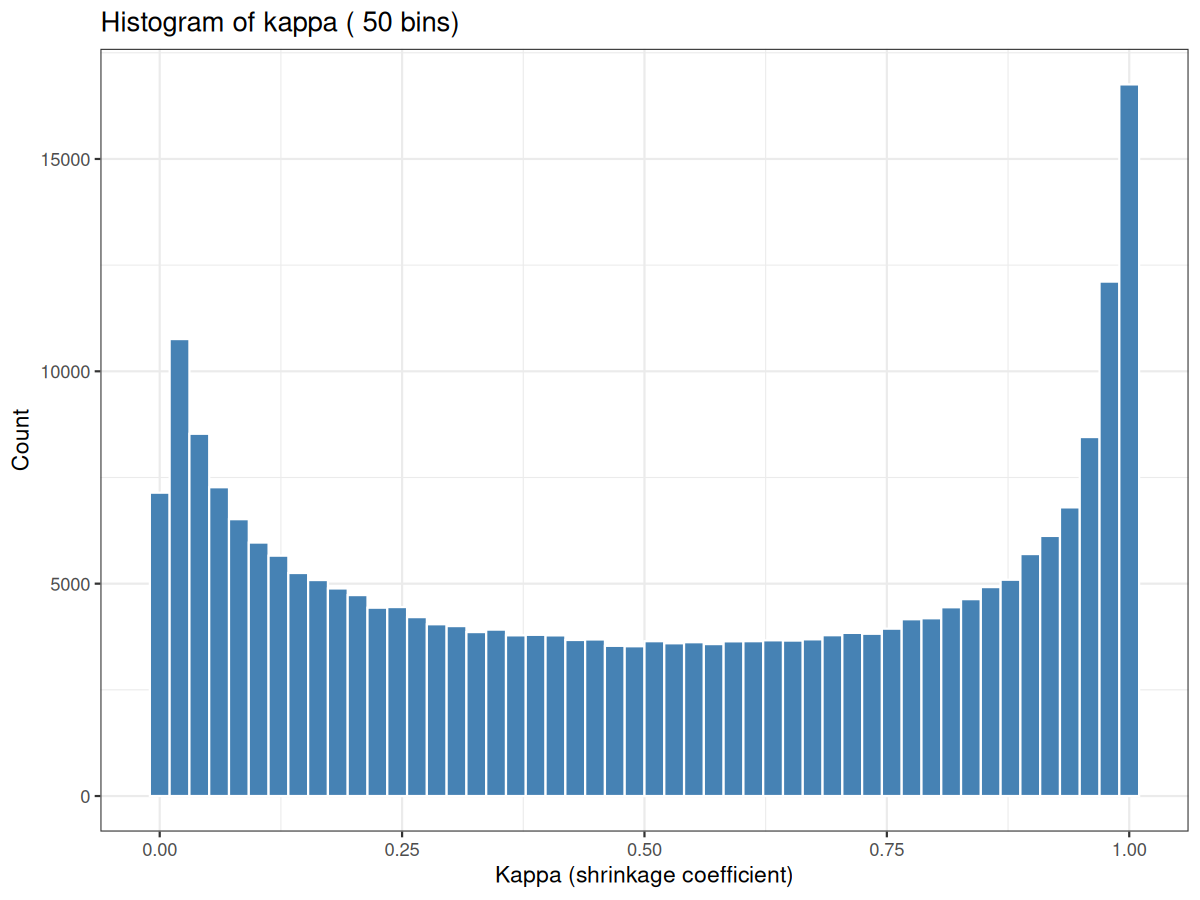
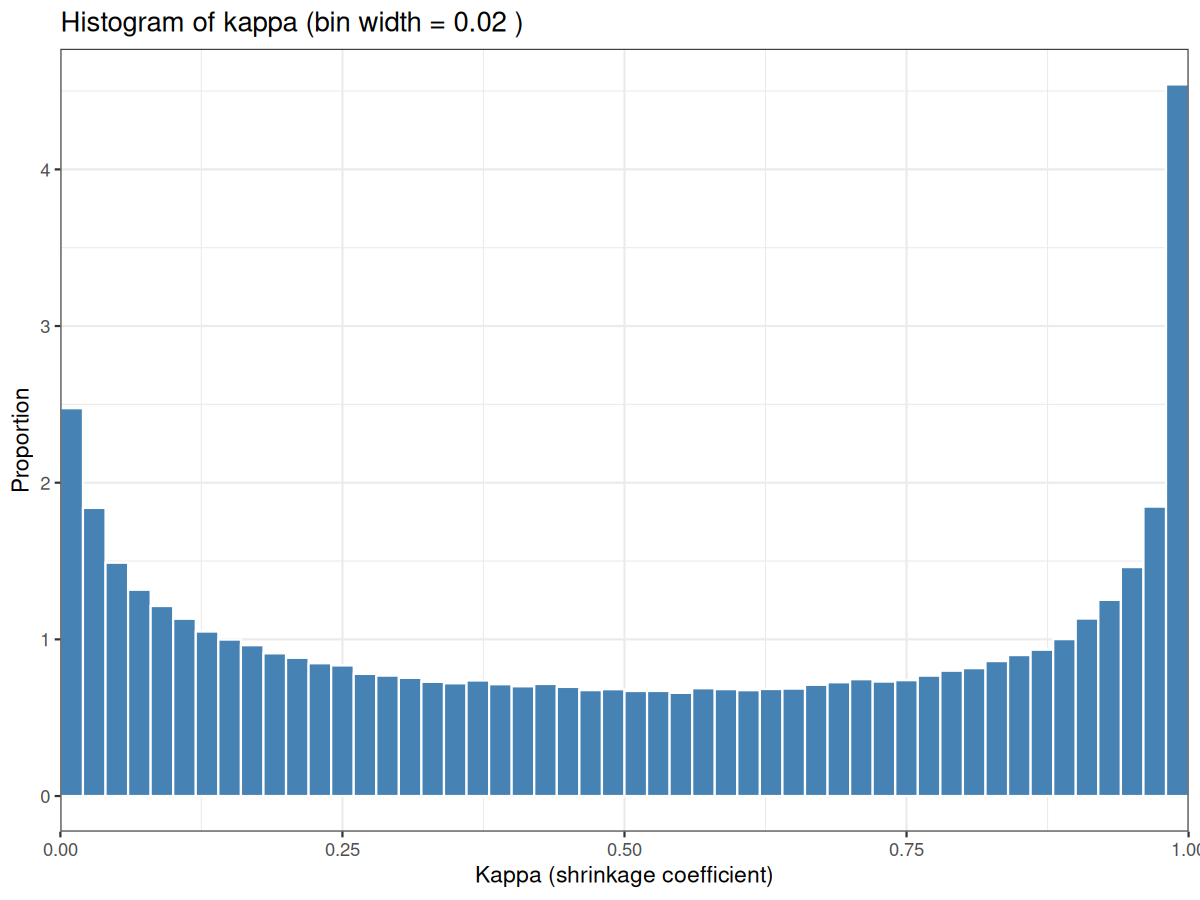
Update plots: add log_tau, larger text, divergent in red, kappa histogram fixes

diff --git a/README.md b/README.md
@@ -108,12 +108,12 @@ print(p)
 p_loglik <- mle.se.pval(posterior_samples$theta, rep(1, length(posterior_samples$theta)), return.asplot=TRUE)
 print(p_loglik)
 
-## Plot pairs of posterior samples (f, log_c, lp__)
-p_pairs <- plot_posterior_pairs(fit, c('f', 'log_c'))
+## Plot pairs of posterior samples (f, log_c, log_tau)
+p_pairs <- plot_posterior_pairs(fit)
 print(p_pairs)
 
-## Plot histogram of kappa shrinkage coefficients
-p_kappa <- plot_kappa_hist(fit, num_bins = 50)
+## Plot histogram of kappa shrinkage coefficients (bin width 0.02, proportion)
+p_kappa <- plot_kappa_hist(fit, bin_width = 0.02)
 print(p_kappa)
 ```
 
@@ -138,16 +138,15 @@ theta     -0.337     0.0014    0.051     -0.436     -0.338     -0.233    1390   
 
 **Plot of log-likelihood:**
 
-![Log-likelihood plot](./loglik_plot.png)
-
+<img src="./loglik_plot.png" width="500" />
 
 **Pairs plot of posterior samples:**
 
-![Posterior pairs plot](./posterior_pairs_plot.png)
+<img src="./posterior_pairs_plot.png" width="500" />
 
 **Histogram of kappa shrinkage coefficients:**
 
-![Kappa histogram](./kappa_hist_plot.png)
+<img src="./kappa_hist_plot.png" width="500" />
 
 **MLE from posterior:**
 
@@ -175,7 +174,7 @@ A scatter plot of the effects of the effects of the instruments on the outcome a
 
 ### Choosing prior parameters
 
-- `fraction_pleio`: Prior guess for the proportion of instruments with pleiotropic effects (0.05 to 0.95). Default is 0.5.  With the current version of the program, the global shrinkage parameter is fixed at 10^-6^ and this setting has no effect. 
+- `fraction_pleio`: Prior guess for the proportion of instruments with pleiotropic effects (0.05 to 0.95). Default is 0.5.  
 - `slab_scale`: Scale parameter for the regularized horseshoe slab component. Default is 0.2.
 - `priorsd_theta`: Prior standard deviation for the causal effect theta. Default is 1 (weakly informative).
 
